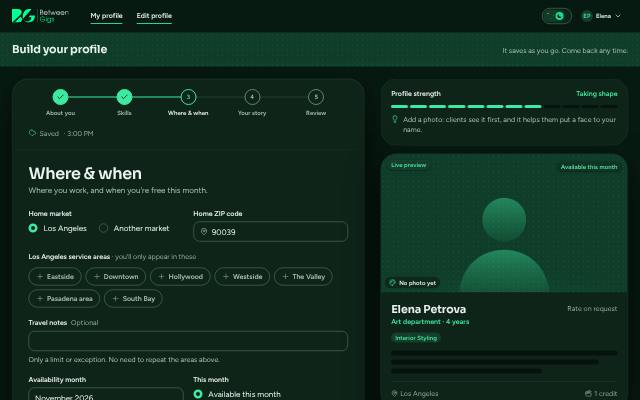
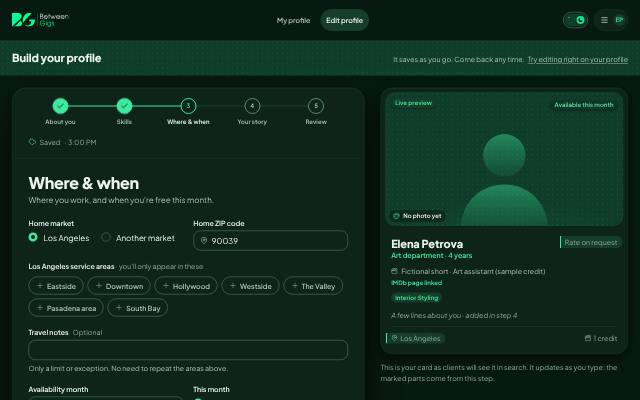
Friendly look, dark: back to the forest-green dark with quiet green tints
The charcoal night read as too big a change. Dark mode on the product screens uses the system's forest-green dark
again, with B's shapes, type and 3D icons; the tints become soft green-family steps (mint, moss, teal, olive) so blocks
group content without fighting the green. Refreshes the Preview guide thumbnails, which still showed the old screens.

Claude-Session: https://claude.ai/code/session_018rRyGXT71zSiBS7uQJ9HKu

diff --git a/styles/look-friendly.css b/styles/look-friendly.css
@@ -2,7 +2,8 @@
  * The friendly look (direction B · Warm & friendly, chosen 4 Nov 2026), on the product screens only: lib/look.ts lists
  * them and sets <html data-look="friendly">. Warm cream page, forest ink and forest primary buttons, pastel tints for
  * grouping, pill buttons, rounder cards, and Plus Jakarta Sans in place of Figtree and Sora. Dark mode keeps the
- * system's dark palette with the same shapes and type. The tints exist on every page so components can use them.
+ * system's forest-green dark with the same shapes, type and 3D icons; there the tints are quiet green-family tones so
+ * the blocks read as gentle steps of the forest rather than separate colours. The tints exist on every page so components can use them.
  */
 @font-face {
   font-family: "Plus Jakarta Sans";
@@ -39,11 +40,11 @@
 }
 @media (prefers-color-scheme: dark) {
   :root:not([data-theme=light]) {
-    --tint-mint: #133829; --tint-peach: #3d2224; --tint-butter: #3a3115; --tint-sky: #172b3e; --tint-sage: #212f20; --tint-sand: #29241d; --tint-ink: #f4efe6;
+    --tint-mint: #16402e; --tint-peach: #2c2f26; --tint-butter: #263322; --tint-sky: #16343a; --tint-sage: #1b3527; --tint-sand: #1f3127; --tint-ink: #eaf4ee;
   }
 }
 :root[data-theme=dark] {
-  --tint-mint: #133829; --tint-peach: #3d2224; --tint-butter: #3a3115; --tint-sky: #172b3e; --tint-sage: #212f20; --tint-sand: #29241d; --tint-ink: #f4efe6;
+  --tint-mint: #16402e; --tint-peach: #2c2f26; --tint-butter: #263322; --tint-sky: #16343a; --tint-sage: #1b3527; --tint-sand: #1f3127; --tint-ink: #eaf4ee;
 }
 
 /* `friendly:` variant for the few shared components (site header) that differ on product screens. */
@@ -89,22 +90,3 @@
   }
 }
 
-/*
- * Dark theme on the product screens: a warm charcoal night instead of the system's forest-green dark, so the pastel
- * tints read as deep jewel tones (on green they turned muddy brown and olive). Warm off-white text, mint as the one
- * bright accent and the primary button colour.
- */
-:root[data-look=friendly][data-theme=dark] {
-  --bg: #12110e; --surface: #1c1a16; --surface-raised: #24211c; --surface-sunken: #0d0c0a; --surface-hover: #2a2620;
-  --surface-selected: #173a2b; --line: #2e2a23; --line-strong: #6f6757; --line-dashed: #3f392f;
-  --ink: #f4efe6; --ink-muted: #c7bfb1; --ink-subtle: #a9a193; --ink-brand: #3deba0;
-  --action: #1fdc8c; --action-hover: #4fe0a0; --on-action: #04180e; --neutral-soft: #24211c;
-}
-@media (prefers-color-scheme: dark) {
-  :root[data-look=friendly]:not([data-theme=light]) {
-    --bg: #12110e; --surface: #1c1a16; --surface-raised: #24211c; --surface-sunken: #0d0c0a; --surface-hover: #2a2620;
-    --surface-selected: #173a2b; --line: #2e2a23; --line-strong: #6f6757; --line-dashed: #3f392f;
-    --ink: #f4efe6; --ink-muted: #c7bfb1; --ink-subtle: #a9a193; --ink-brand: #3deba0;
-    --action: #1fdc8c; --action-hover: #4fe0a0; --on-action: #04180e; --neutral-soft: #24211c;
-  }
-}
